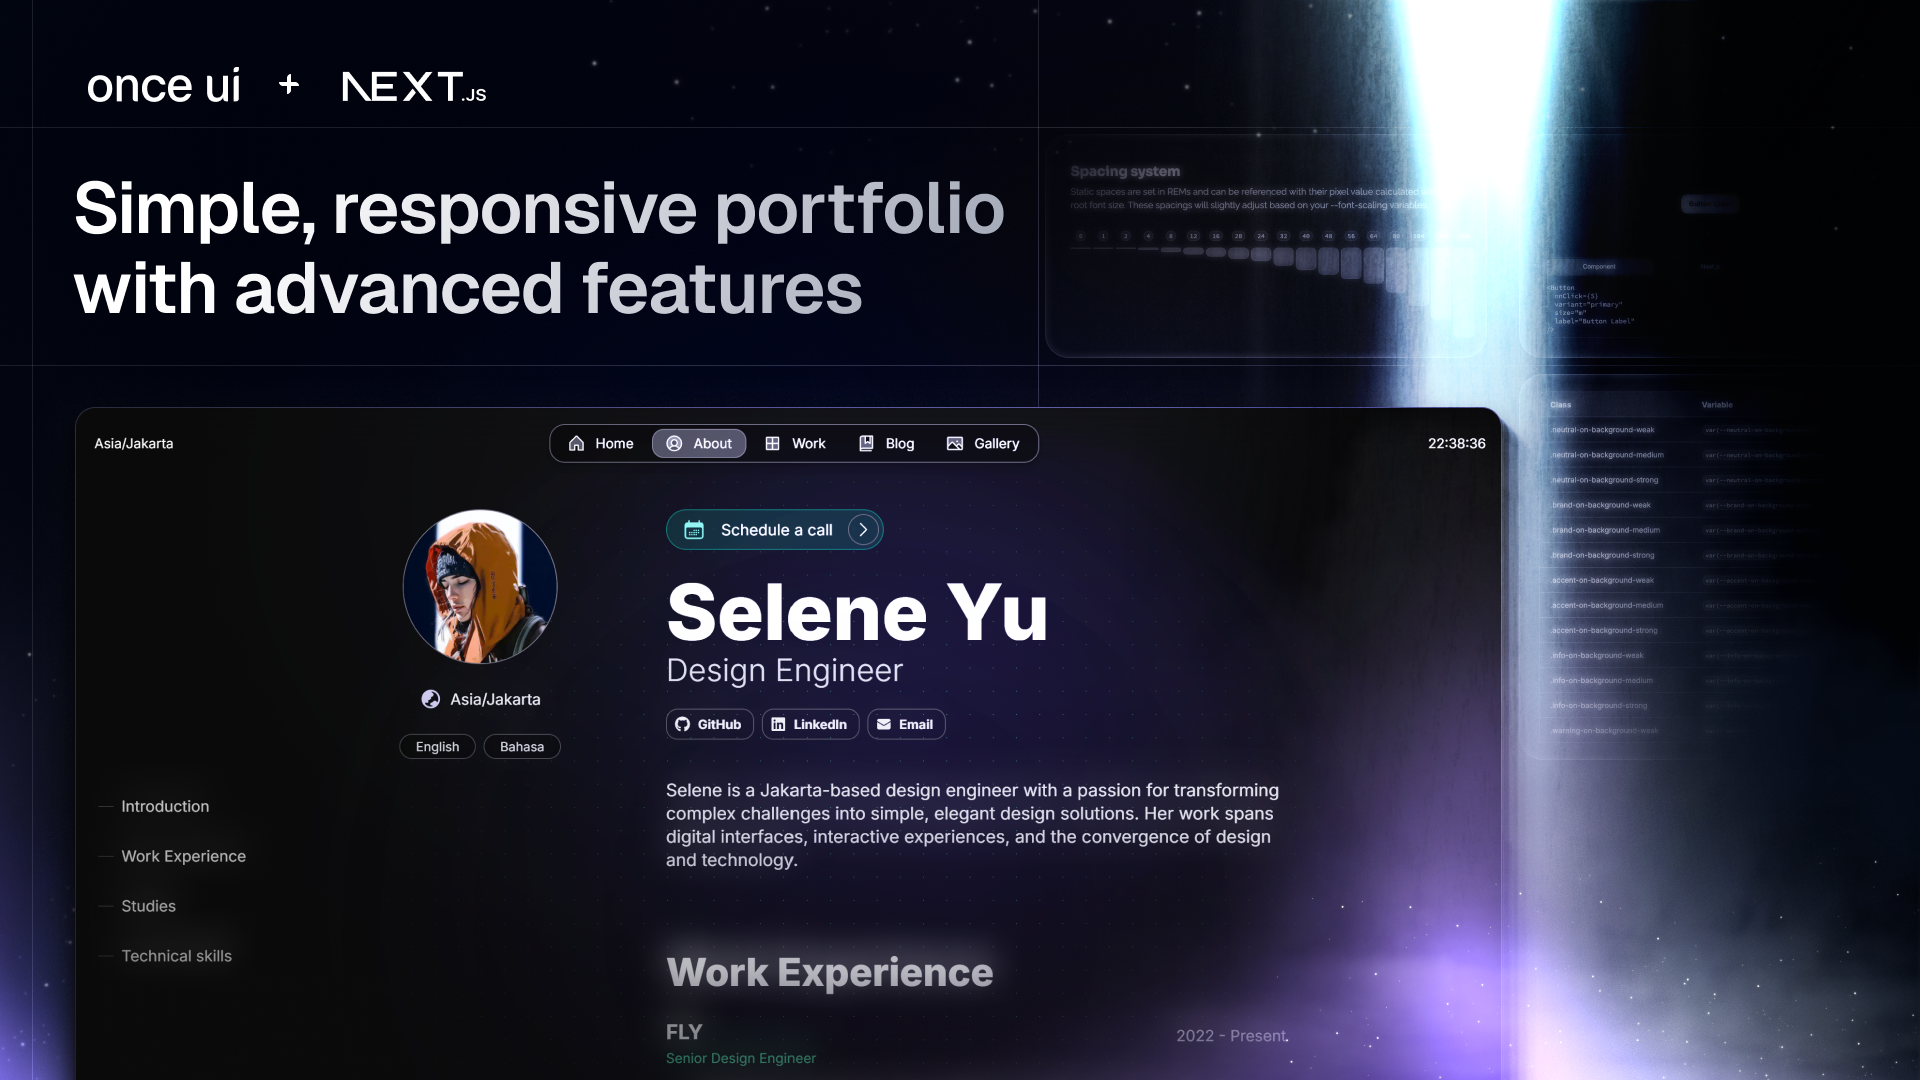
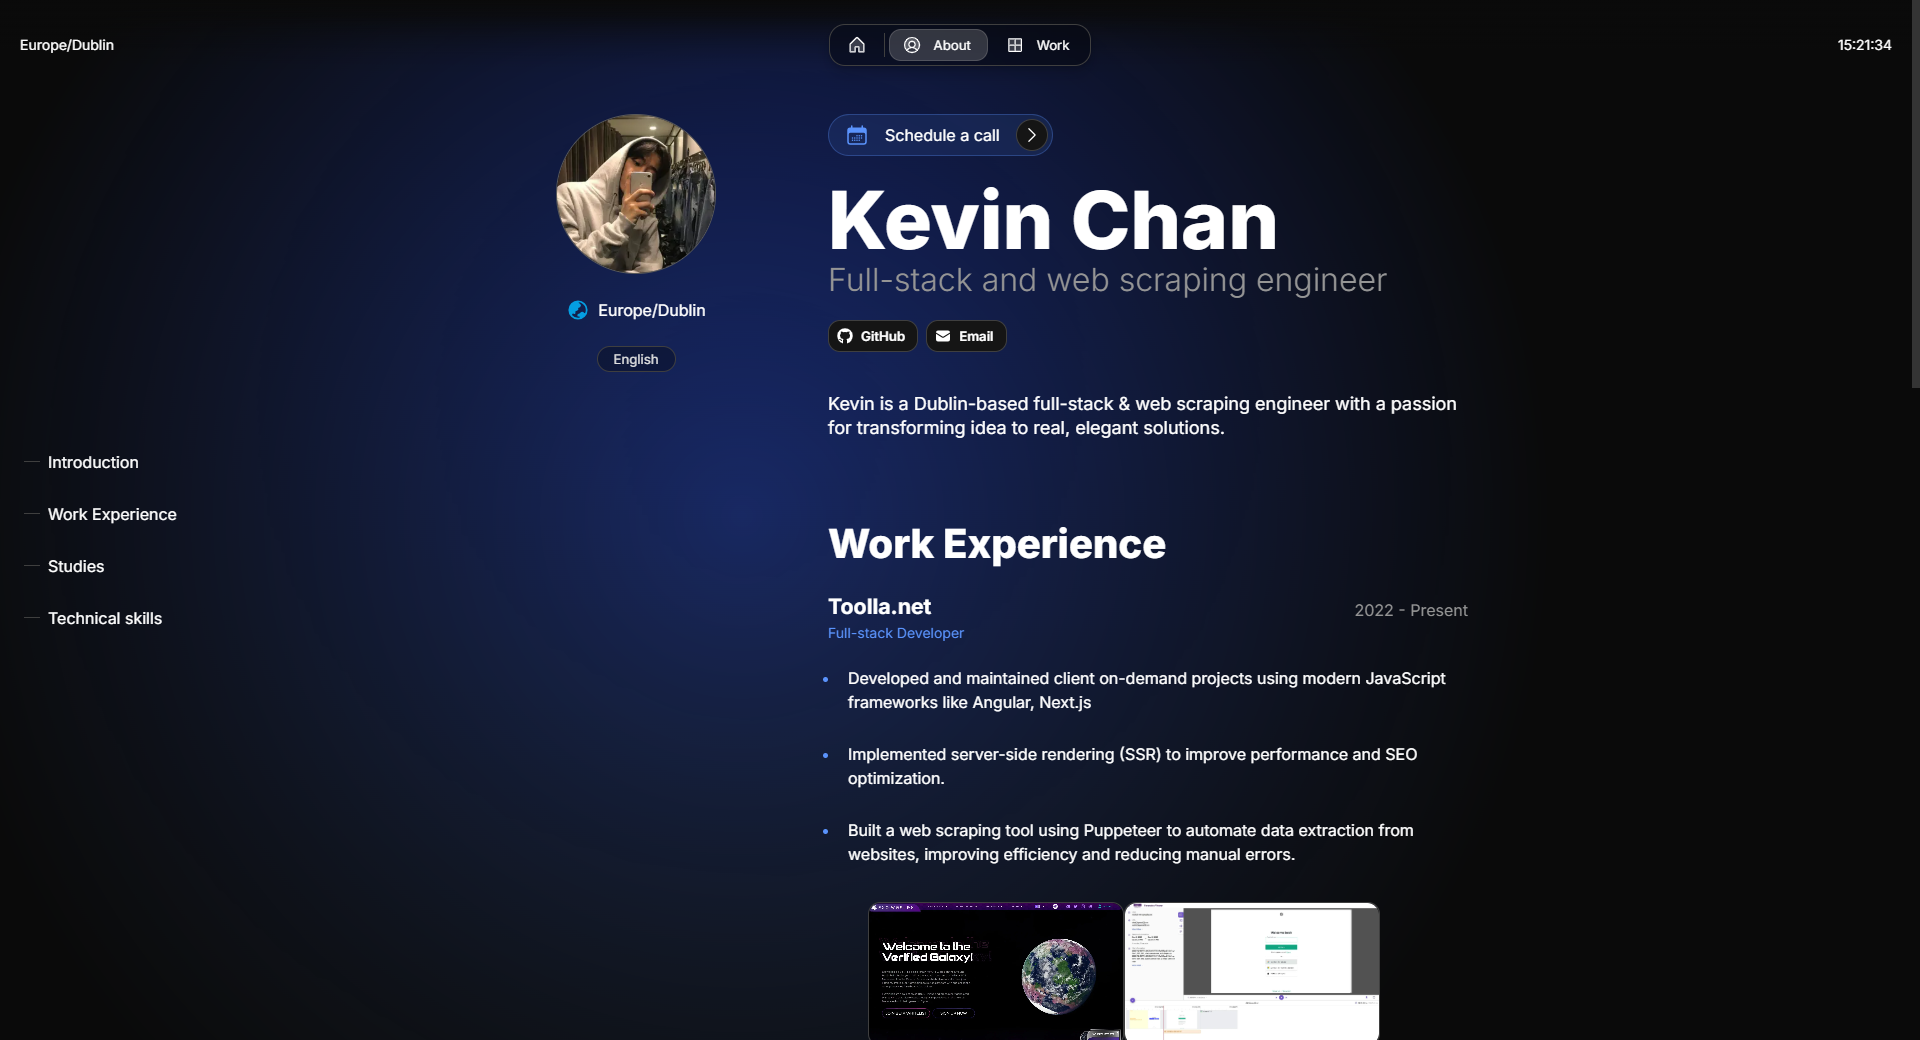
chore: update contents

diff --git a/src/app/resources/content.js b/src/app/resources/content.js
@@ -91,6 +91,40 @@ const about = {
     title: "Work Experience",
     experiences: [
       {
+        company: "Toolla.net",
+        timeframe: "2022 - Present",
+        role: "Full-stack Developer",
+        achievements: [
+          <>
+            Developed and maintained client on-demand projects using modern
+            JavaScript frameworks like Angular, Next.js
+          </>,
+          <>
+            Implemented server-side rendering (SSR) to improve performance and
+            SEO optimization.
+          </>,
+          <>
+            Built a web scraping tool using Puppeteer to automate data
+            extraction from websites, improving efficiency and reducing manual
+            errors.
+          </>,
+        ],
+        images: [
+          {
+            src: "/images/projects/project-02/cover-02-01.jpg",
+            alt: "Project image",
+            width: 16,
+            height: 9,
+          },
+          {
+            src: "/images/projects/project-02/cover-02-02.jpg",
+            alt: "Project image",
+            width: 16,
+            height: 9,
+          },
+        ],
+      },
+      {
         company: "My Home",
         timeframe: "2020 - 2022",
         role: "Frontend Developer",
@@ -172,12 +206,6 @@ const about = {
         images: [
           {
             src: "/images/projects/project-01/cover-02.jpg",
-            alt: "Project image",
-            width: 16,
-            height: 9,
-          },
-          {
-            src: "/images/projects/project-01/cover-03.jpg",
             alt: "Project image",
             width: 16,
             height: 9,

diff --git a/src/app/layout.tsx b/src/app/layout.tsx
@@ -42,7 +42,7 @@ export async function generateMetadata() {
 const primary = Inter({
   variable: "--font-primary",
   subsets: ["latin"],
-  display: "swap",
+  // display: "swap",
 });
 
 type FontConfig = {
@@ -87,11 +87,17 @@ export default async function RootLayout({ children }: RootLayoutProps) {
         primary.variable,
         secondary ? secondary.variable : "",
         tertiary ? tertiary.variable : "",
-        code.variable,
+        code.variable
       )}
     >
       <ToastProvider>
-        <Column style={{ minHeight: "100vh" }} as="body" fillWidth margin="0" padding="0">
+        <Column
+          style={{ minHeight: "100vh" }}
+          as="body"
+          fillWidth
+          margin="0"
+          padding="0"
+        >
           <Background
             mask={{
               cursor: effects.mask.cursor,

diff --git a/src/components/Header.tsx b/src/components/Header.tsx
@@ -109,7 +109,7 @@ export const Header = () => {
                   />
                 </>
               )}
-              {routes["/blog"] && (
+              {/* {routes["/blog"] && (
                 <>
                   <ToggleButton
                     className="s-flex-hide"
@@ -142,7 +142,7 @@ export const Header = () => {
                     selected={pathname.startsWith("/gallery")}
                   />
                 </>
-              )}
+              )} */}
             </Flex>
           </Flex>
         </Flex>

diff --git a/src/app/page.tsx b/src/app/page.tsx
@@ -113,7 +113,7 @@ export default function Home() {
         </Flex>
       )}
       <Projects range={[2]} />
-      {newsletter.display && <Mailchimp newsletter={newsletter} />}
+      {/* {newsletter.display && <Mailchimp newsletter={newsletter} />} */}
     </Column>
   );
 }

diff --git a/src/app/resources/config.js b/src/app/resources/config.js
@@ -1,4 +1,4 @@
-const baseURL = "demo.magic-portfolio.com";
+const baseURL = "portfolio.com";
 
 const routes = {
   "/": true,
